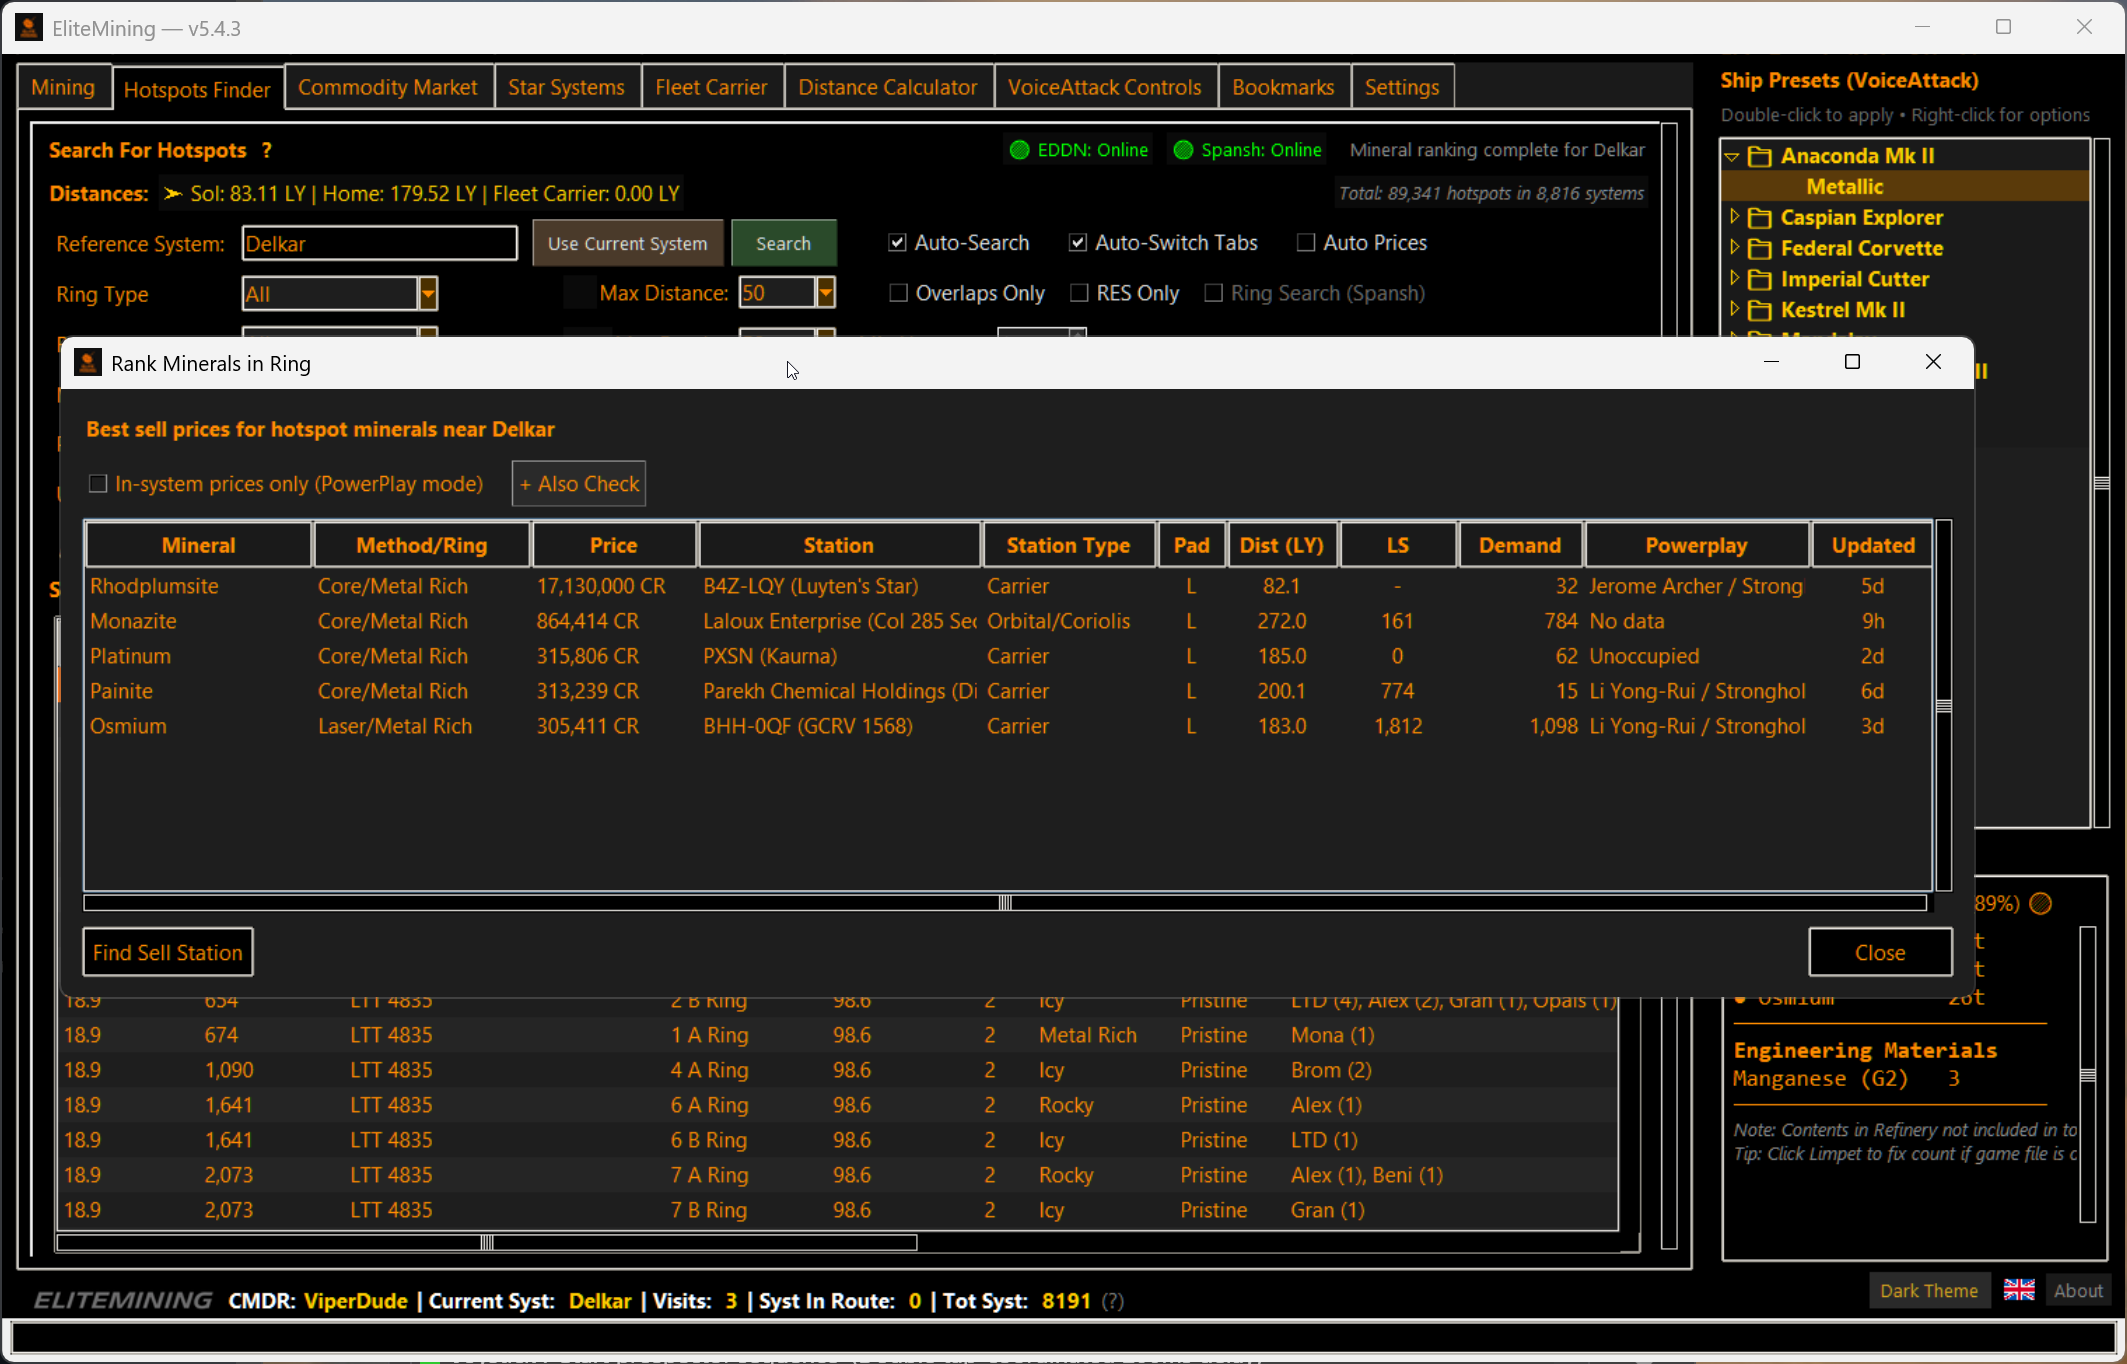
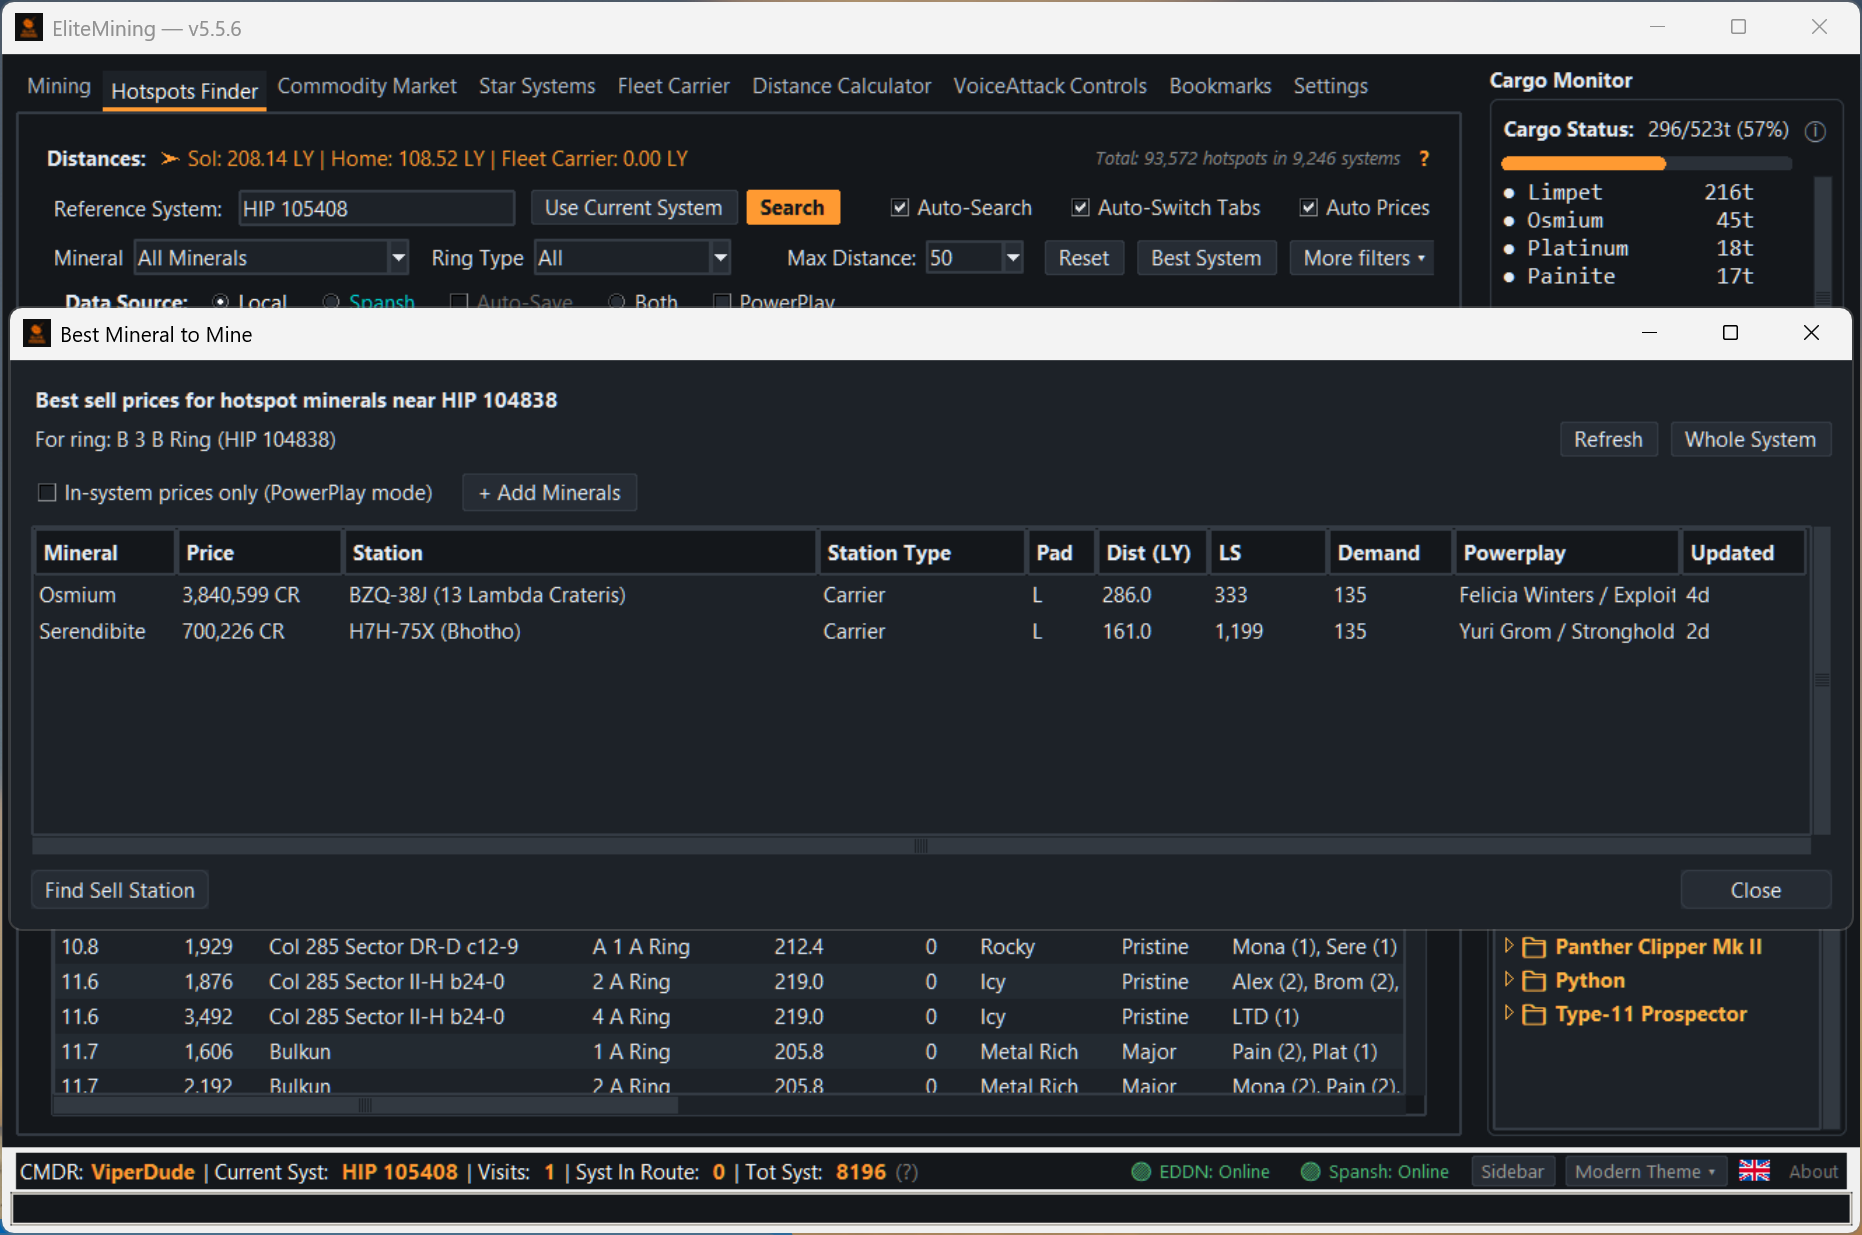
v5.5.6- Ring finder,marked place (mutiple prices) and modern theme

diff --git a/README.md b/README.md
@@ -307,7 +307,7 @@ The Hotspot Finder provides access to a comprehensive database of 80,000+ confir
 - **PowerPlay Column** – Displays the controlling power and state for each system. Fills in instantly for systems you jump into yourself, and via EDDN (live data from other commanders, stored locally while the app runs) for the rest — coverage of systems you haven't visited can take hours to days to build up. Double-click any row showing 'No data ↗' to open the system on Inara and fetch the data automatically.
 - **PowerPlay Tick Box** – Next to the Data Source options (Local searches only). Off (default) searches faster and shows only the PowerPlay info already saved on your PC. Tick it to also look up the latest PowerPlay info online from Spansh.
 - **Rank Minerals** – Right-click a ring and choose "Rank Minerals in This Ring", or "Rank Minerals in Entire System", to see the best sell prices for the hotspot minerals nearby. Use "+ add" to include minerals without hotspots (e.g. Osmium).
-- **Find Acquisition Targets** – Right-click a Fortified or Stronghold system to list nearby Unoccupied systems with a station buying your mineral, for PowerPlay Acquisition merits (search radius 20 Ly for Fortified, 30 Ly for Stronghold). Works with any mineral, including ones without hotspots like Osmium.
+- **Best Minerals to Mine** – Right-click a Fortified or Stronghold system to list nearby Unoccupied systems with a station buying your mineral, for PowerPlay Acquisition merits (search radius 20 Ly for Fortified, 30 Ly for Stronghold). Works with any mineral, including ones without hotspots like Osmium.
 - **Auto Prices** – Requires Auto-Search. After a jump to a system with known hotspots, automatically fetches live sell prices and opens the Best Mineral to Mine window without stealing focus. Right-click the Auto Prices checkbox to show the results on the in-game text overlay instead (all minerals with price, station, landing pad, distance and demand, while you're in supercruise) and to switch "In-system prices only" on or off.
 
 ### Setting & Managing Overlap/RES Data
@@ -326,7 +326,7 @@ Automatically imports hotspots from your Elite Dangerous journal files and conti
 
 <img src="https://github.com/Viper-Dude/EliteMining/blob/main/Screenshot/find_acqusition_targets.png" width="900"><br>  
 <img src="https://github.com/Viper-Dude/EliteMining/blob/main/Screenshot/find_acqusition_targets_results.png" width="900"><br>  
-*Find Acquisition Targets from the right-click menu and its results.*
+*Best Minerals to Mine from the right-click menu and its results.*
 
 <img src="https://github.com/Viper-Dude/EliteMining/blob/main/Screenshot/rank_minerals_ring.png" width="900"><br>  
 <img src="https://github.com/Viper-Dude/EliteMining/blob/main/Screenshot/rank_minerals_ring_add.png" width="900"><br>  
@@ -346,7 +346,7 @@ Where you sell your mined goods matters just as much as where you mine them.
 How the app helps (all in the [Hotspot Finder](#hotspot-finder)):
 1. **Power/State filter** – find Fortified or Stronghold systems to mine in.
 2. **Rank Minerals / Auto Prices** – see the best sell prices for your minerals.
-3. **Find Acquisition Targets** – right-click a Fortified or Stronghold system to list nearby Unoccupied systems buying your mineral.
+3. **Best Minerals to Mine** – right-click a Fortified or Stronghold system to list nearby Unoccupied systems buying your mineral.
 
 [Back to Top](#top)
 
